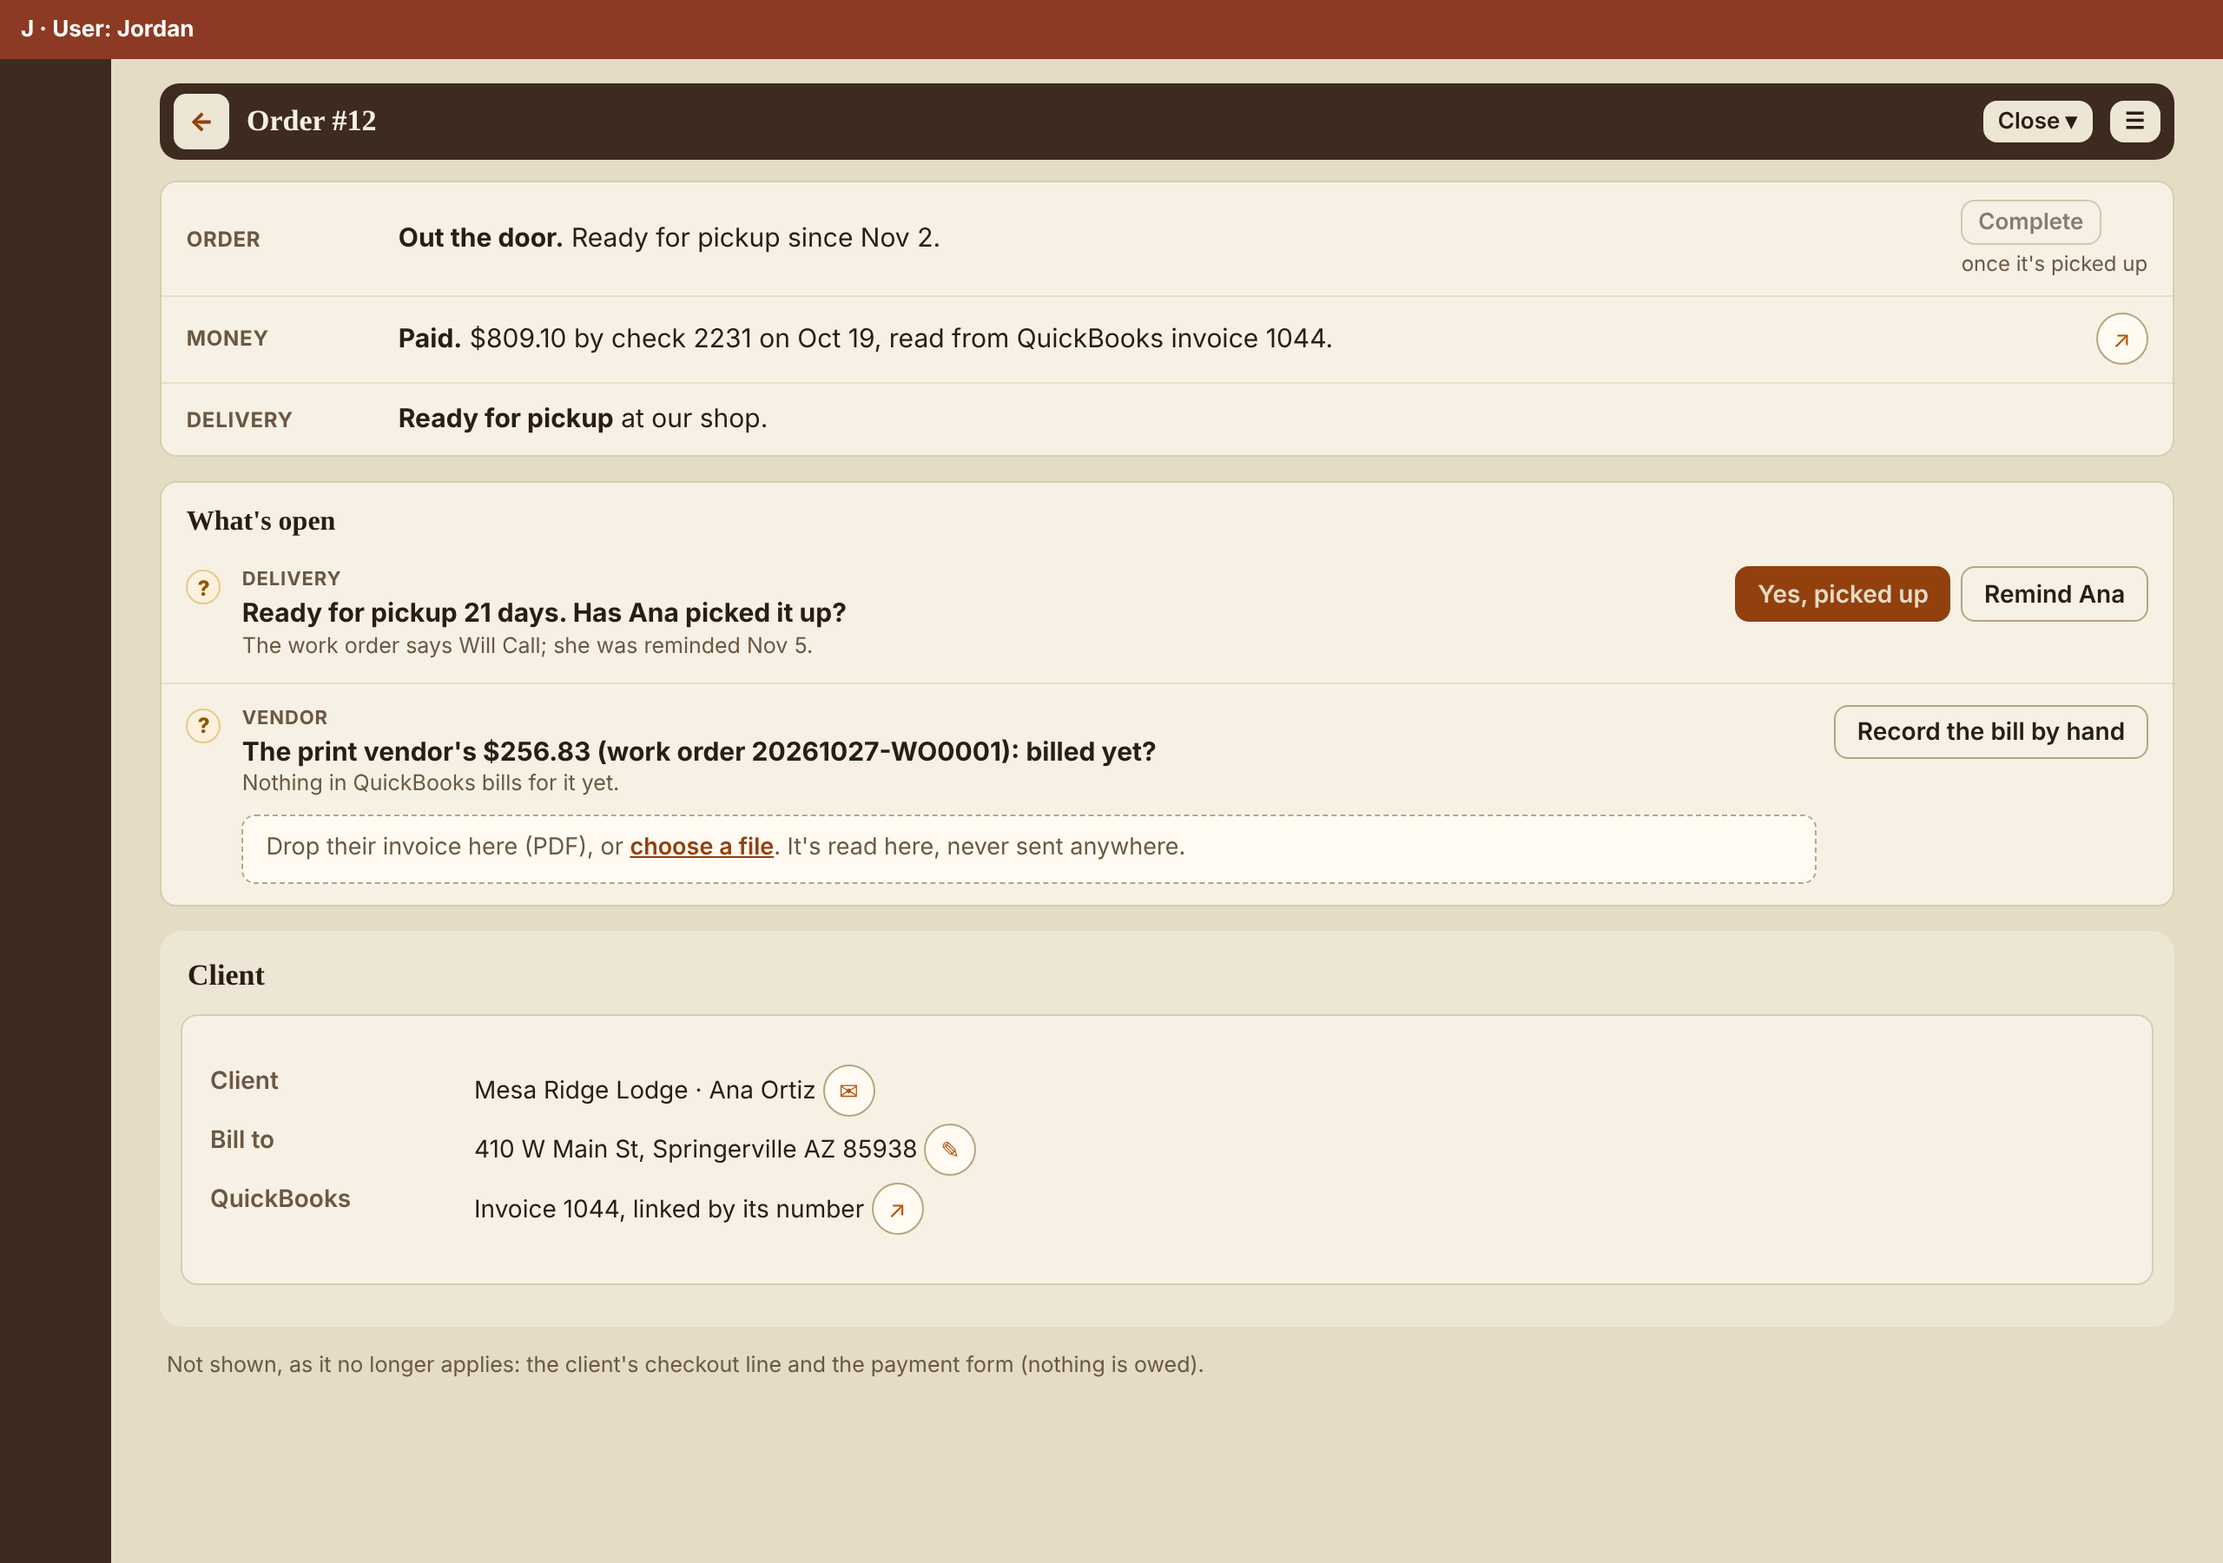
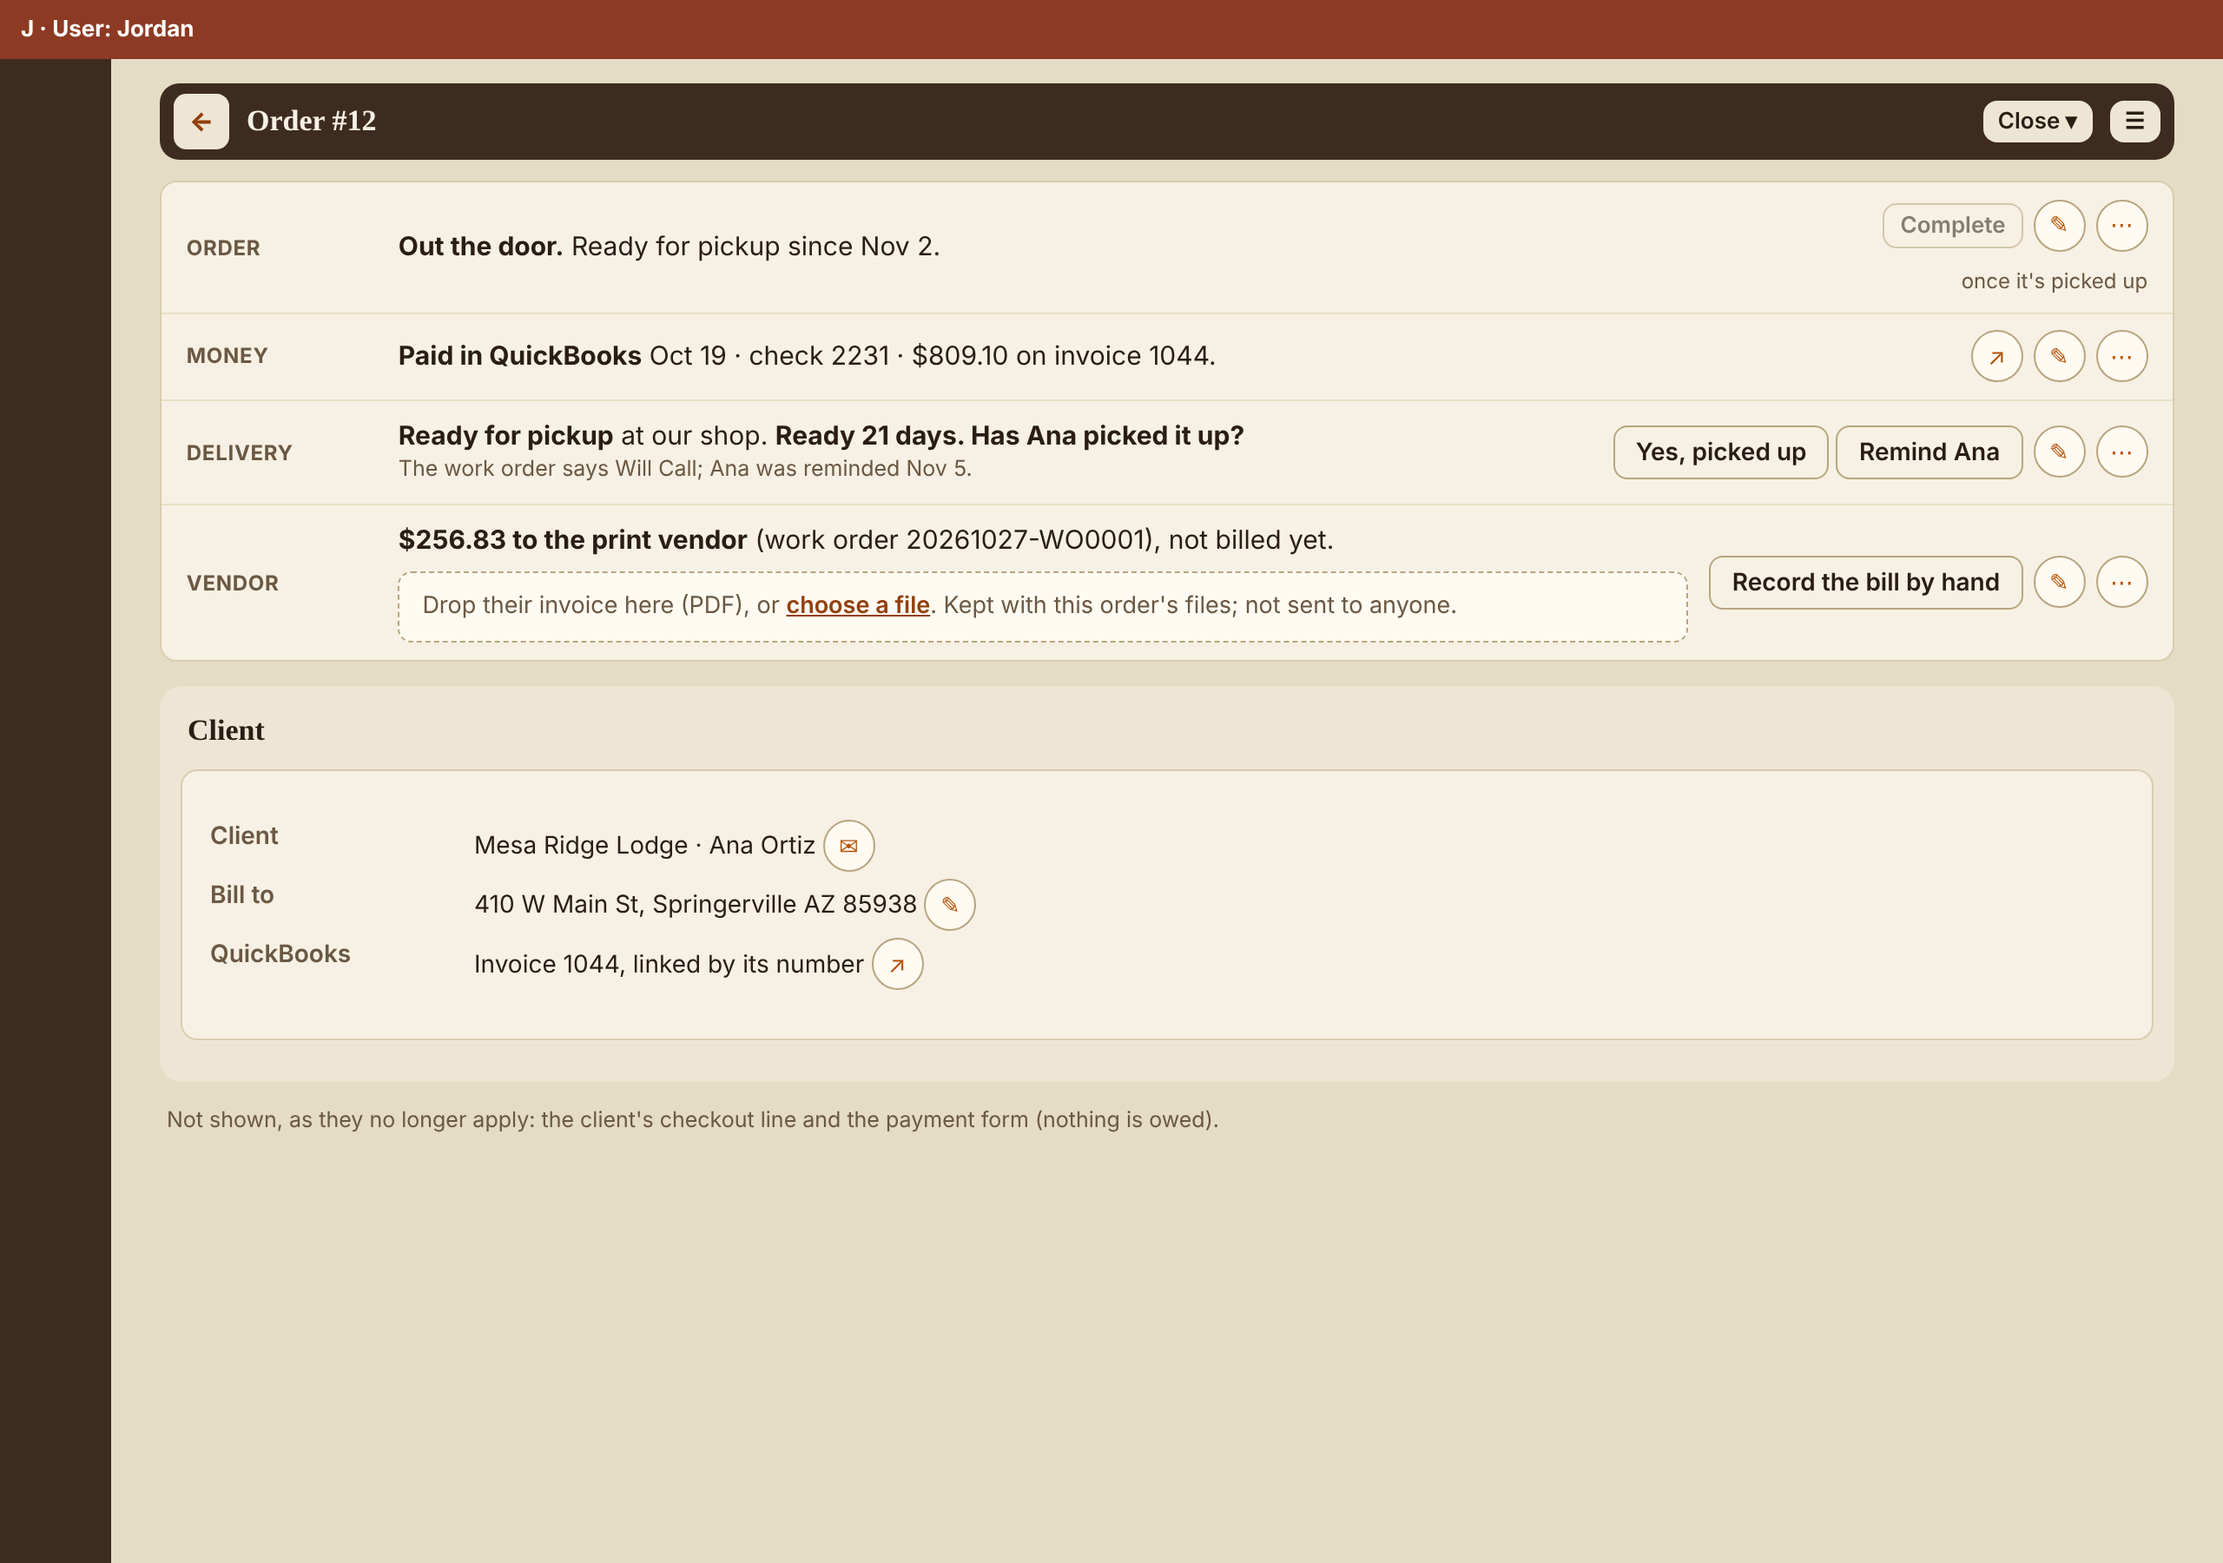
M1b design: the questions on the lines, a Vendor line, ✎ and ⋯ on each, the drop zone through the one uploader; (a) decided
Claude-Session: https://claude.ai/code/session_01CXLi5jrE1f1iCSbBQssAAe

diff --git a/design/order-management/mockups.html b/design/order-management/mockups.html
@@ -66,6 +66,12 @@ td.n{text-align:right;font-variant-numeric:tabular-nums}
 .oi .q{font-weight:700}.oi .acts{justify-content:flex-end}.oi .mk{width:20px;height:20px;border-radius:50%;display:grid;place-items:center;font-size:12px;font-weight:800;margin-top:2px}
 .mk.ask{background:var(--amber-bg);color:var(--amber);border:1px solid #E6C98F}.mk.ok{background:#DCEBE1;color:#2F5E45}
 .ib{width:30px;height:30px;border-radius:50%;border:1px solid #B8A57F;background:#FFFBF2;color:#B45309;display:inline-grid;place-items:center;cursor:pointer;padding:0}
+.lb{display:flex;flex-wrap:wrap;gap:6px;align-items:center;justify-content:flex-end;position:relative}.lb .why{flex-basis:100%;text-align:right}
+.line .sub{display:block}.line .drop{display:block}
+.tkm{position:absolute;right:0;top:calc(100% + 6px);z-index:6;width:min(22rem,calc(100vw - 24px));background:var(--card);border:1px solid #B8A57F;border-radius:.6rem;box-shadow:0 14px 30px -12px rgba(0,0,0,.45);padding:.35rem .5rem;display:grid;text-align:left}
+.tkh{display:flex;justify-content:space-between;align-items:center;border-bottom:1px solid #EADFC4;padding:.2rem 0 .35rem;font-size:13.5px}.x2{border:0;background:none;font-size:18px;cursor:pointer}
+.tki{display:grid;gap:2px;padding:.35rem 0;border-bottom:1px solid #EADFC4}.tki:last-child{border:0}.tki small{color:var(--meta);font-size:12.5px}.tki.off small{font-style:italic}.tki .b{justify-self:start}
+@media (max-width:767px){.lb{justify-content:flex-start}.lb .why{text-align:left}.tkm{left:0;right:auto}}
 .drop{border:1.5px dashed #B8A57F;border-radius:.5rem;padding:.6rem .8rem;color:var(--meta);font-size:13.5px;margin-top:.45rem;background:#FFFBF2}
 .read{width:100%;margin-top:.5rem;font-size:13.5px}.read td,.read th{padding:.35rem .55rem}.read .y{color:#2F5E45;font-weight:700}.read .ne{color:var(--amber);font-weight:700}
 @media (max-width:767px){.oi{grid-template-columns:22px 1fr}.oi .acts{grid-column:2;justify-content:flex-start}}
@@ -201,24 +207,27 @@ label{display:block;font-size:13px;font-weight:600;color:var(--meta);margin:.5re
   <div class="strip"><span class="back">←</span><h1>Order #12</h1><button class="b sm">Close ▾</button><button class="b sm">☰</button></div>
   <div class="news" role="status">
     <div class="line"><span class="k">Order</span><span><b>Out the door.</b> Ready for pickup since Nov 2.</span>
-      <span data-only="open"><button class="b sm" disabled title="Picked up? asked below">Complete</button><span class="why">once it's picked up</span></span><span data-only="open-after"><button class="b go">Complete the order</button></span></div>
-    <div class="line"><span class="k">Money</span><span><b>Paid.</b> $809.10 by check 2231 on Oct 19, read from QuickBooks invoice 1044.</span><span><button class="ib" title="Open the payment in QuickBooks" aria-label="Open the payment in QuickBooks">↗</button></span></div>
-    <div class="line"><span class="k">Delivery</span><span data-only="open"><b>Ready for pickup</b> at our shop.</span><span data-only="open-after"><b>Picked up</b> Nov 23, recorded by Jordan.</span><span data-only="open-after" class="done">✓ · <a href="#">Undo</a></span><span data-only="open"></span></div>
-  </div>
-  <div class="open"><h2>What's open</h2>
-    <div class="oi" data-only="open"><span class="mk ask">?</span><div><span class="tag">Delivery</span><span class="q">Ready for pickup 21 days. Has Ana picked it up?</span><small class="sub">The work order says Will Call; she was reminded Nov 5.</small></div>
-      <div class="acts"><button class="b go">Yes, picked up</button><button class="b">Remind Ana</button></div></div>
-    <div class="oi" data-only="open"><span class="mk ask">?</span><div><span class="tag">Vendor</span><span class="q">The print vendor's $256.83 (work order 20261027-WO0001): billed yet?</span><small class="sub">Nothing in QuickBooks bills for it yet.</small>
-      <div class="drop">Drop their invoice here (PDF), or <a href="#">choose a file</a>. It's read here, never sent anywhere.</div></div>
-      <div class="acts"><button class="b">Record the bill by hand</button></div></div>
-    <div class="oi" data-only="open-after"><span class="mk ask">?</span><div><span class="tag">Vendor's invoice 130929 · Nov 17</span><span class="q">The vendor says it shipped by USPS Priority Mail; the work order says pickup. Which is right?</span>
-      <table class="read"><tbody><tr><td>PO</td><td>20261027-WO0001</td><td class="y">✓ our work order</td></tr><tr><td>Amount</td><td>$256.83</td><td class="y">✓ the agreed cost</td></tr><tr><td>Tax · shipping</td><td>$0.00 · $0.00</td><td class="y">✓</td></tr><tr><td>Ship via</td><td>USPS Priority Mail</td><td class="ne">≠ Will Call</td></tr></tbody></table></div>
-      <div class="acts"><button class="b">It was picked up</button><button class="b">It shipped: add tracking</button></div></div>
-    <div class="oi" data-only="open-after"><span class="mk ask">$</span><div><span class="tag">Vendor</span><span class="q">Record the vendor's bill: $256.83, due on receipt</span><small class="sub">Invoice 130929, kept with the order's files <button class="ib" title="Open the vendor's invoice 130929" aria-label="Open the vendor's invoice 130929">↗</button></small></div>
-      <div class="acts"><button class="b">Record the vendor bill</button></div></div>
+      <span class="lb"><span data-only="open"><button class="b sm" disabled title="Once it's picked up">Complete</button></span><span data-only="open-after"><button class="b go">Complete the order</button></span><button class="ib" title="Edit the order" aria-label="Edit the order">✎</button><button class="ib" title="Other moves for order" aria-label="Other moves for order">⋯</button><span class="why" data-only="open">once it's picked up</span></span></div>
+    <div class="line"><span class="k">Money</span><span><b>Paid in QuickBooks</b> Oct 19 · check 2231 · $809.10 on invoice 1044.</span>
+      <span class="lb"><button class="ib" title="Open the payment in QuickBooks" aria-label="Open the payment in QuickBooks">↗</button><button class="ib" title="Edit the payment" aria-label="Edit the payment">✎</button><button class="ib" title="Other moves for money" aria-label="Other moves for money">⋯</button></span></div>
+    <div class="line"><span class="k">Delivery</span>
+      <span data-only="open"><b>Ready for pickup</b> at our shop. <b>Ready 21 days. Has Ana picked it up?</b><small class="sub">The work order says Will Call; Ana was reminded Nov 5.</small></span>
+      <span data-only="open-after"><b>Picked up</b> Nov 23, recorded by Jordan.</span>
+      <span class="lb"><span data-only="open"><button class="b">Yes, picked up</button> <button class="b">Remind Ana</button></span><button class="ib" title="Edit the delivery" aria-label="Edit the delivery">✎</button><button class="ib" title="Other moves for delivery" aria-label="Other moves for delivery">⋯</button></span></div>
+    <div class="line"><span class="k">Vendor</span>
+      <span data-only="open"><b>$256.83 to the print vendor</b> (work order 20261027-WO0001), not billed yet.
+        <span class="drop">Drop their invoice here (PDF), or <a href="#">choose a file</a>. Kept with this order's files; not sent to anyone.</span></span>
+      <span data-only="open-after"><b>Their invoice 130929, Nov 17</b>, read: <b>the vendor says it shipped by USPS Priority Mail; the work order says pickup. Which is right?</b>
+        <table class="read"><tbody><tr><td>PO</td><td>20261027-WO0001</td><td class="y">✓ our work order</td></tr><tr><td>Amount</td><td>$256.83</td><td class="y">✓ the agreed cost</td></tr><tr><td>Tax · shipping</td><td>$0.00 · $0.00</td><td class="y">✓</td></tr><tr><td>Ship via</td><td>USPS Priority Mail</td><td class="ne">≠ Will Call</td></tr></tbody></table></span>
+      <span class="lb"><span data-only="open"><button class="b">Record the bill by hand</button></span><span data-only="open-after"><button class="b">It was picked up</button> <button class="b">It shipped: add tracking</button> <button class="b">Record the vendor bill</button></span><button class="ib" title="Edit the vendor bill" aria-label="Edit the vendor bill">✎</button><button class="ib" title="Other moves for vendor" aria-label="Other moves for vendor">⋯</button>
+        <span class="tkm" data-only="open-after" role="menu"><span class="tkh"><b>Other moves for vendor</b><button class="x2" aria-label="Close">×</button></span>
+          <span class="tki"><button class="b sm">Record the bill</button><small>From their invoice, or typed: amount, number, date, due.</small></span>
+          <span class="tki"><button class="b sm">Drop their invoice</button><small>Read here without AI; kept with this order's files.</small></span>
+          <span class="tki"><button class="b sm">Not billed by them</button><small>No bill is coming (their own job, a sample).</small></span>
+          <span class="tki off"><button class="b sm" disabled>Dispute…</button><small>Nothing billed yet to dispute.</small></span></span></span></div>
   </div>
   <div class="sec"><h2>Client</h2><div class="card"><dl class="kv"><dt>Client</dt><dd>Mesa Ridge Lodge · Ana Ortiz <button class="ib" title="Email ana@mesaridge.example" aria-label="Email ana@mesaridge.example">✉</button></dd><dt>Bill to</dt><dd>410 W Main St, Springerville AZ 85938 <button class="ib" title="Edit the bill-to address" aria-label="Edit the bill-to address">✎</button></dd><dt>QuickBooks</dt><dd>Invoice 1044, linked by its number <button class="ib" title="Open QuickBooks invoice 1044" aria-label="Open QuickBooks invoice 1044">↗</button></dd></dl></div></div>
-  <p class="sub" style="margin:0 4px">Not shown, as it no longer applies: the client's checkout line and the payment form (nothing is owed).</p>
+  <p class="sub" style="margin:0 4px">Not shown, as they no longer apply: the client's checkout line and the payment form (nothing is owed).</p>
 </section>
 
 <!-- ============================== 4. Money ============================== -->

diff --git a/research/order-management-design-2026-11-23.md b/research/order-management-design-2026-11-23.md
@@ -216,18 +216,25 @@ nothing saying whether they've billed us.
    work order says pickup. Which is right?"); then **Record the vendor bill** (Undo), after which the vendor's line reads
    "Billed $256.83 (inv 130929, Nov 17) · due". A scan with no text says so and offers the four key fields to type; AI
    reading only within the cap and never Gemini's free tier (it's private, decisions/0164).
-4. **One "What's open" list** under the three state lines, money first; each item one see → do → confirm task (CLAUDE.md
-   #1308), Undo only for actions that roll back (#1314), Edit for entered values (#1315), inline actions as icons (#1316).
-   Stale or irrelevant blocks don't show at all (the checkout line once released or outside; the payment form when nothing
-   is owed). Its items feed the board: the Next step and the tiles count from them.
+4. **The questions live on the lines, said once** (the Design reviewer, 2026-11-23: no separate "What's open" card, one
+   fact shown once): Order, Money, Delivery and a fourth line, **Vendor** ("$256.83 to the print vendor (work order …),
+   not billed yet", its drop zone and Record the bill by hand, then the invoice's check in place). Each line carries its
+   one suggested action, ✎ to edit what happened and ⋯ for every other move (decisions/0129's note of 2026-11-23); each
+   task see → do → confirm (CLAUDE.md #1308); money never has Undo (decisions/0178's note); Edit for recorded facts
+   (#1315); inline actions as icons (#1316). The drop zone is the one uploader's (decisions/0127), and says "Kept with
+   this order's files; not sent to anyone". Stale or irrelevant blocks don't show at all (the checkout line once
+   released or outside; the payment form when nothing is owed). The lines feed the board: its Next step and tiles.
 
-**What's built where:** M1 builds the state function, the three lines, Delivered, balance due and the Delivery line's
-question (2 in part). **M1b** builds 1, 2's vendor bill, 3 and 4 on M1's state function (mockups `open`, `open-after`).
+**Decided** (the session manager, 2026-11-23): (a) a payment QuickBooks already shows on a linked invoice is applied at
+once: "Paid in QuickBooks <date> · <method/ref>", ✎ to correct it, History kept (it writes nothing outside our records).
 
-**For Jason, in one pop-up (money policy):** (a) when QuickBooks shows a linked invoice paid, record it here at once (with
-Undo) or ask first? (b) should recording a payment here post it to a hand-made QuickBooks invoice once linked by its
-number? (c) should recording a vendor bill here also create it in QuickBooks (against the vendor)? Paying vendors stays a
-separate decision.
+**What's built where:** M1 builds the state function, the three lines with ✎ and ⋯, Delivered, balance due and the
+Delivery line's question (2 in part). **M1b** builds 1, the Vendor line (2's bill, 3) and 4 on M1's state function
+(mockups `open`, `open-after`).
+
+**For Jason, in M1b's pop-up (they write to the books):** (b) should recording a payment here post it to a hand-made
+QuickBooks invoice once linked by its number? (c) should recording a vendor bill here also create it in QuickBooks
+(against the vendor)? Paying vendors stays a separate decision.
 
 ## 4. Pages and drill-down
 
